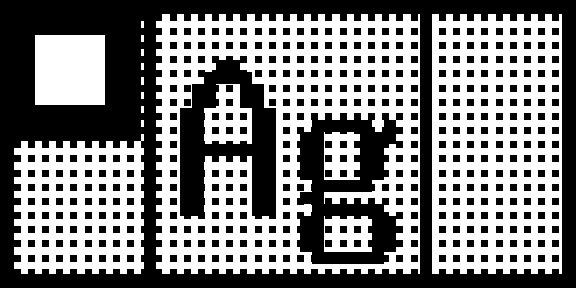
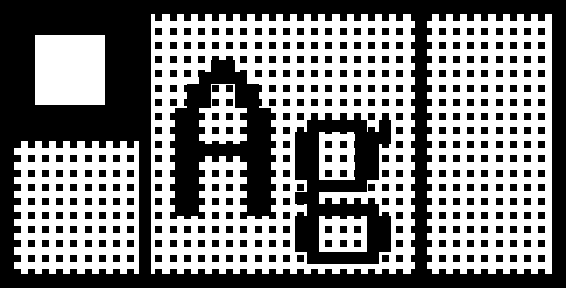
update

Changed region(s): [[0.0601, 0.0312, 0.9912, 0.9688], [0.1802, 0.125, 0.2102, 0.3438], [0.1201, 0.9375, 0.2403, 0.9688]]

diff --git a/src/print.rs b/src/print.rs
@@ -415,7 +415,7 @@ fn determine_tape_width_px(args: &PrintArgs) -> Result<i32> {
 fn print_test_pattern(args: &PrintArgs) -> Result<()> {
     let tape_width_px = determine_tape_width_px(args)?;
     // td represents a tape segment
-    let mut td = TapeDisplay::new((tape_width_px * 2) as usize, tape_width_px as usize);
+    let mut td = TapeDisplay::new(mm_to_px(40.0) as usize, tape_width_px as usize);
     // 1mm outline
     Rectangle::new(
         Point::new(0, 0),
